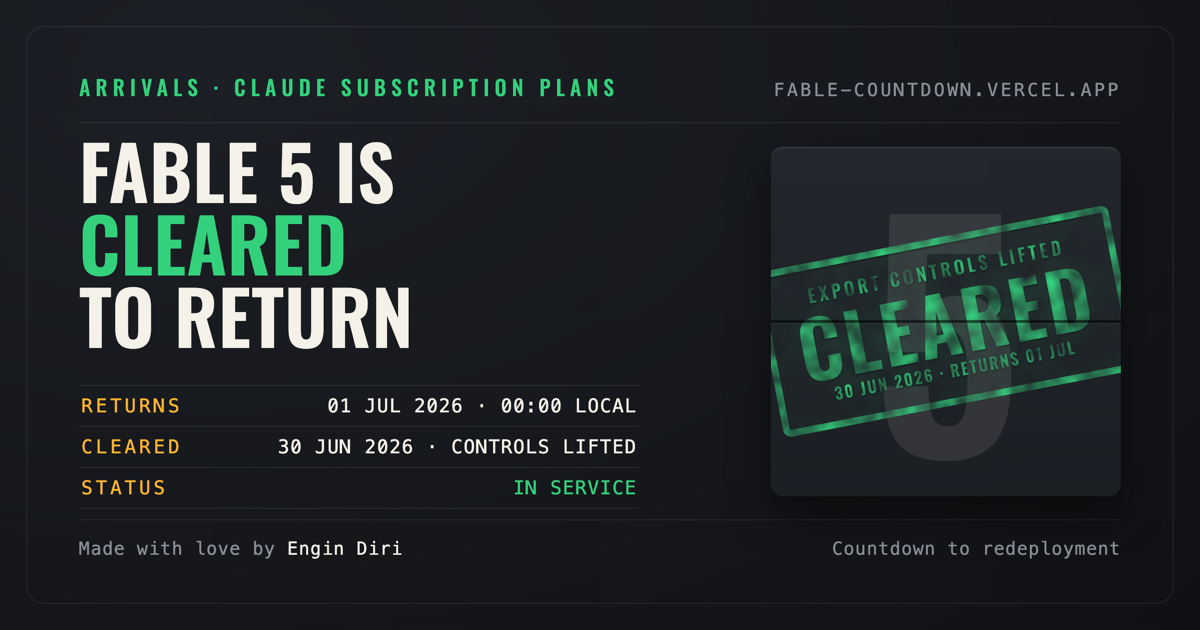
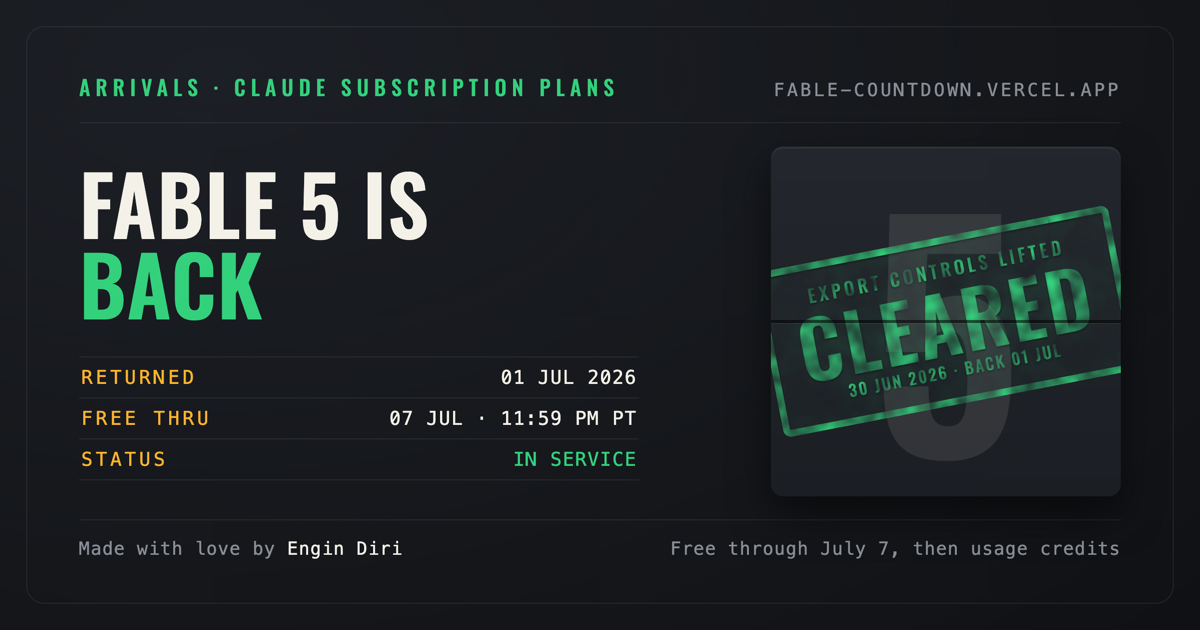
Refresh social card to Phase B (Fable 5 is back, free thru 07 Jul PT)
Update og.png: headline now 'Fable 5 is back', board shows Returned /
Free thru 07 Jul 11:59 PM PT / In service, keeping the green CLEARED
stamp. Bump og:image and twitter:image to ?v=2 to bust social caches and
refresh the alt text.

diff --git a/index.html b/index.html
@@ -14,11 +14,11 @@
 <meta property="og:url" content="https://fable-countdown.vercel.app/">
 <meta property="og:title" content="Claude Fable 5 — cleared to return">
 <meta property="og:description" content="U.S. export controls lifted June 30. Fable 5 returns globally July 1, 2026 — included up to 50% of weekly limits through July 7, then usage credits.">
-<meta property="og:image" content="https://fable-countdown.vercel.app/og.png">
+<meta property="og:image" content="https://fable-countdown.vercel.app/og.png?v=2">
 <meta property="og:image:type" content="image/png">
 <meta property="og:image:width" content="1200">
 <meta property="og:image:height" content="630">
-<meta property="og:image:alt" content="Split-flap arrivals board — Fable 5 is cleared to return, marked with a green CLEARED stamp. Returns 01 Jul 2026.">
+<meta property="og:image:alt" content="Split-flap arrivals board — Fable 5 is back, free through July 7, marked with a green CLEARED stamp.">
 
 <!-- Twitter / X -->
 <meta name="twitter:card" content="summary_large_image">
@@ -26,8 +26,8 @@
 <meta name="twitter:creator" content="@_ediri">
 <meta name="twitter:title" content="Claude Fable 5 — cleared to return">
 <meta name="twitter:description" content="U.S. export controls lifted June 30. Fable 5 returns globally July 1, 2026 — included up to 50% of weekly limits through July 7, then usage credits.">
-<meta name="twitter:image" content="https://fable-countdown.vercel.app/og.png">
-<meta name="twitter:image:alt" content="Split-flap arrivals board — Fable 5 is cleared to return, marked with a green CLEARED stamp.">
+<meta name="twitter:image" content="https://fable-countdown.vercel.app/og.png?v=2">
+<meta name="twitter:image:alt" content="Split-flap arrivals board — Fable 5 is back, free through July 7, with a green CLEARED stamp.">
 
 <link rel="preconnect" href="https://fonts.googleapis.com">
 <link rel="preconnect" href="https://fonts.gstatic.com" crossorigin>